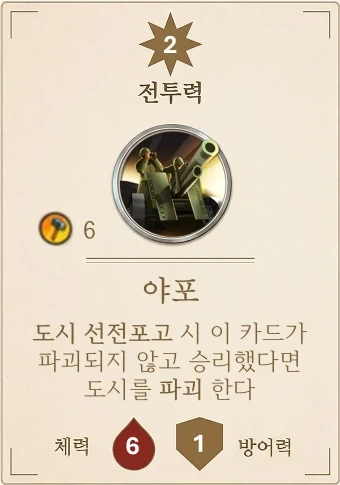
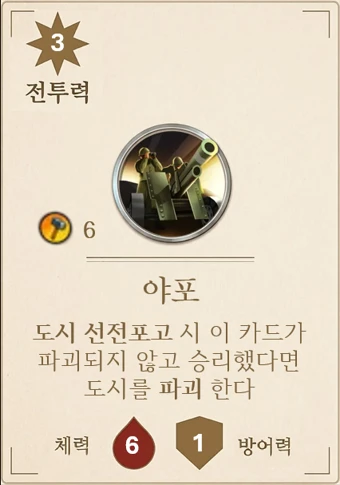
야포 전투력 3 (카드 반영, 가운데 방향 그림 교체)
Claude-Session: https://claude.ai/code/session_01RAyYJg3yqsP1EQBtC7udPM

diff --git a/docs/rules.md b/docs/rules.md
@@ -911,7 +911,7 @@
 
   대포               공성계열          1       5            화학
 
-  야포                                 2       6            다이너마이트
+  야포                                 3       6            다이너마이트
 
   전함               승급 없음                 6            생물학
 
